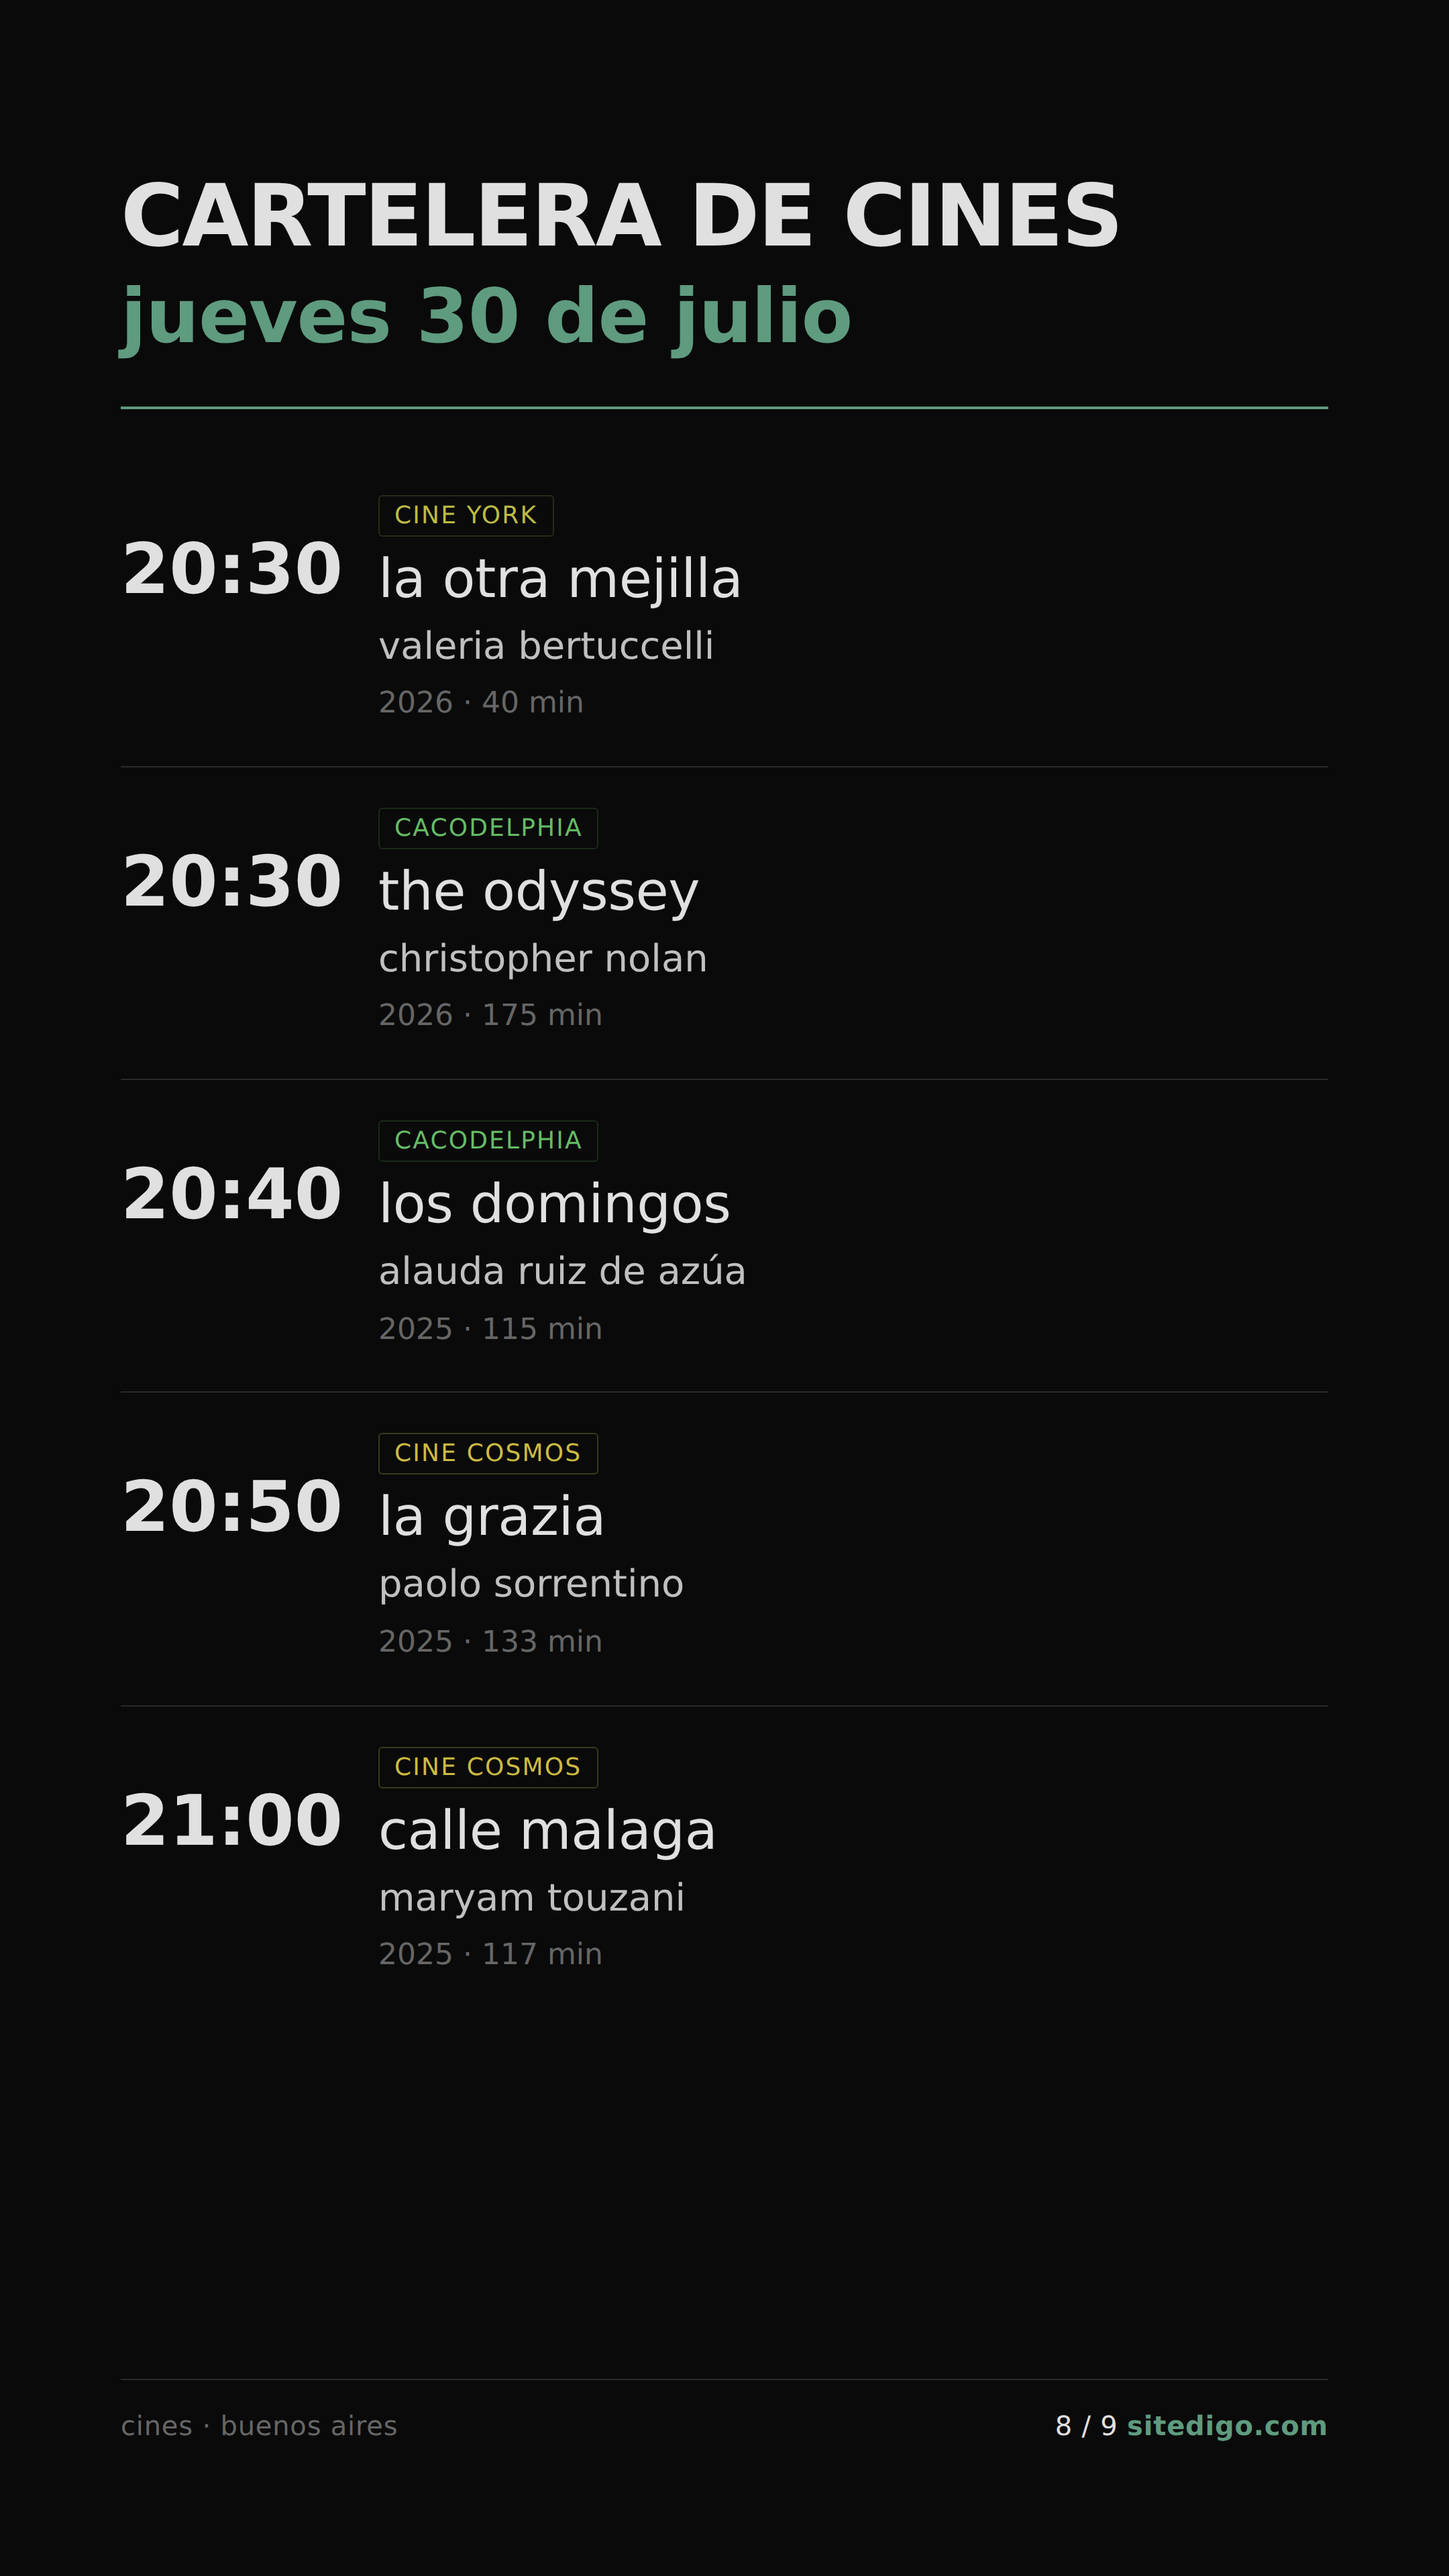
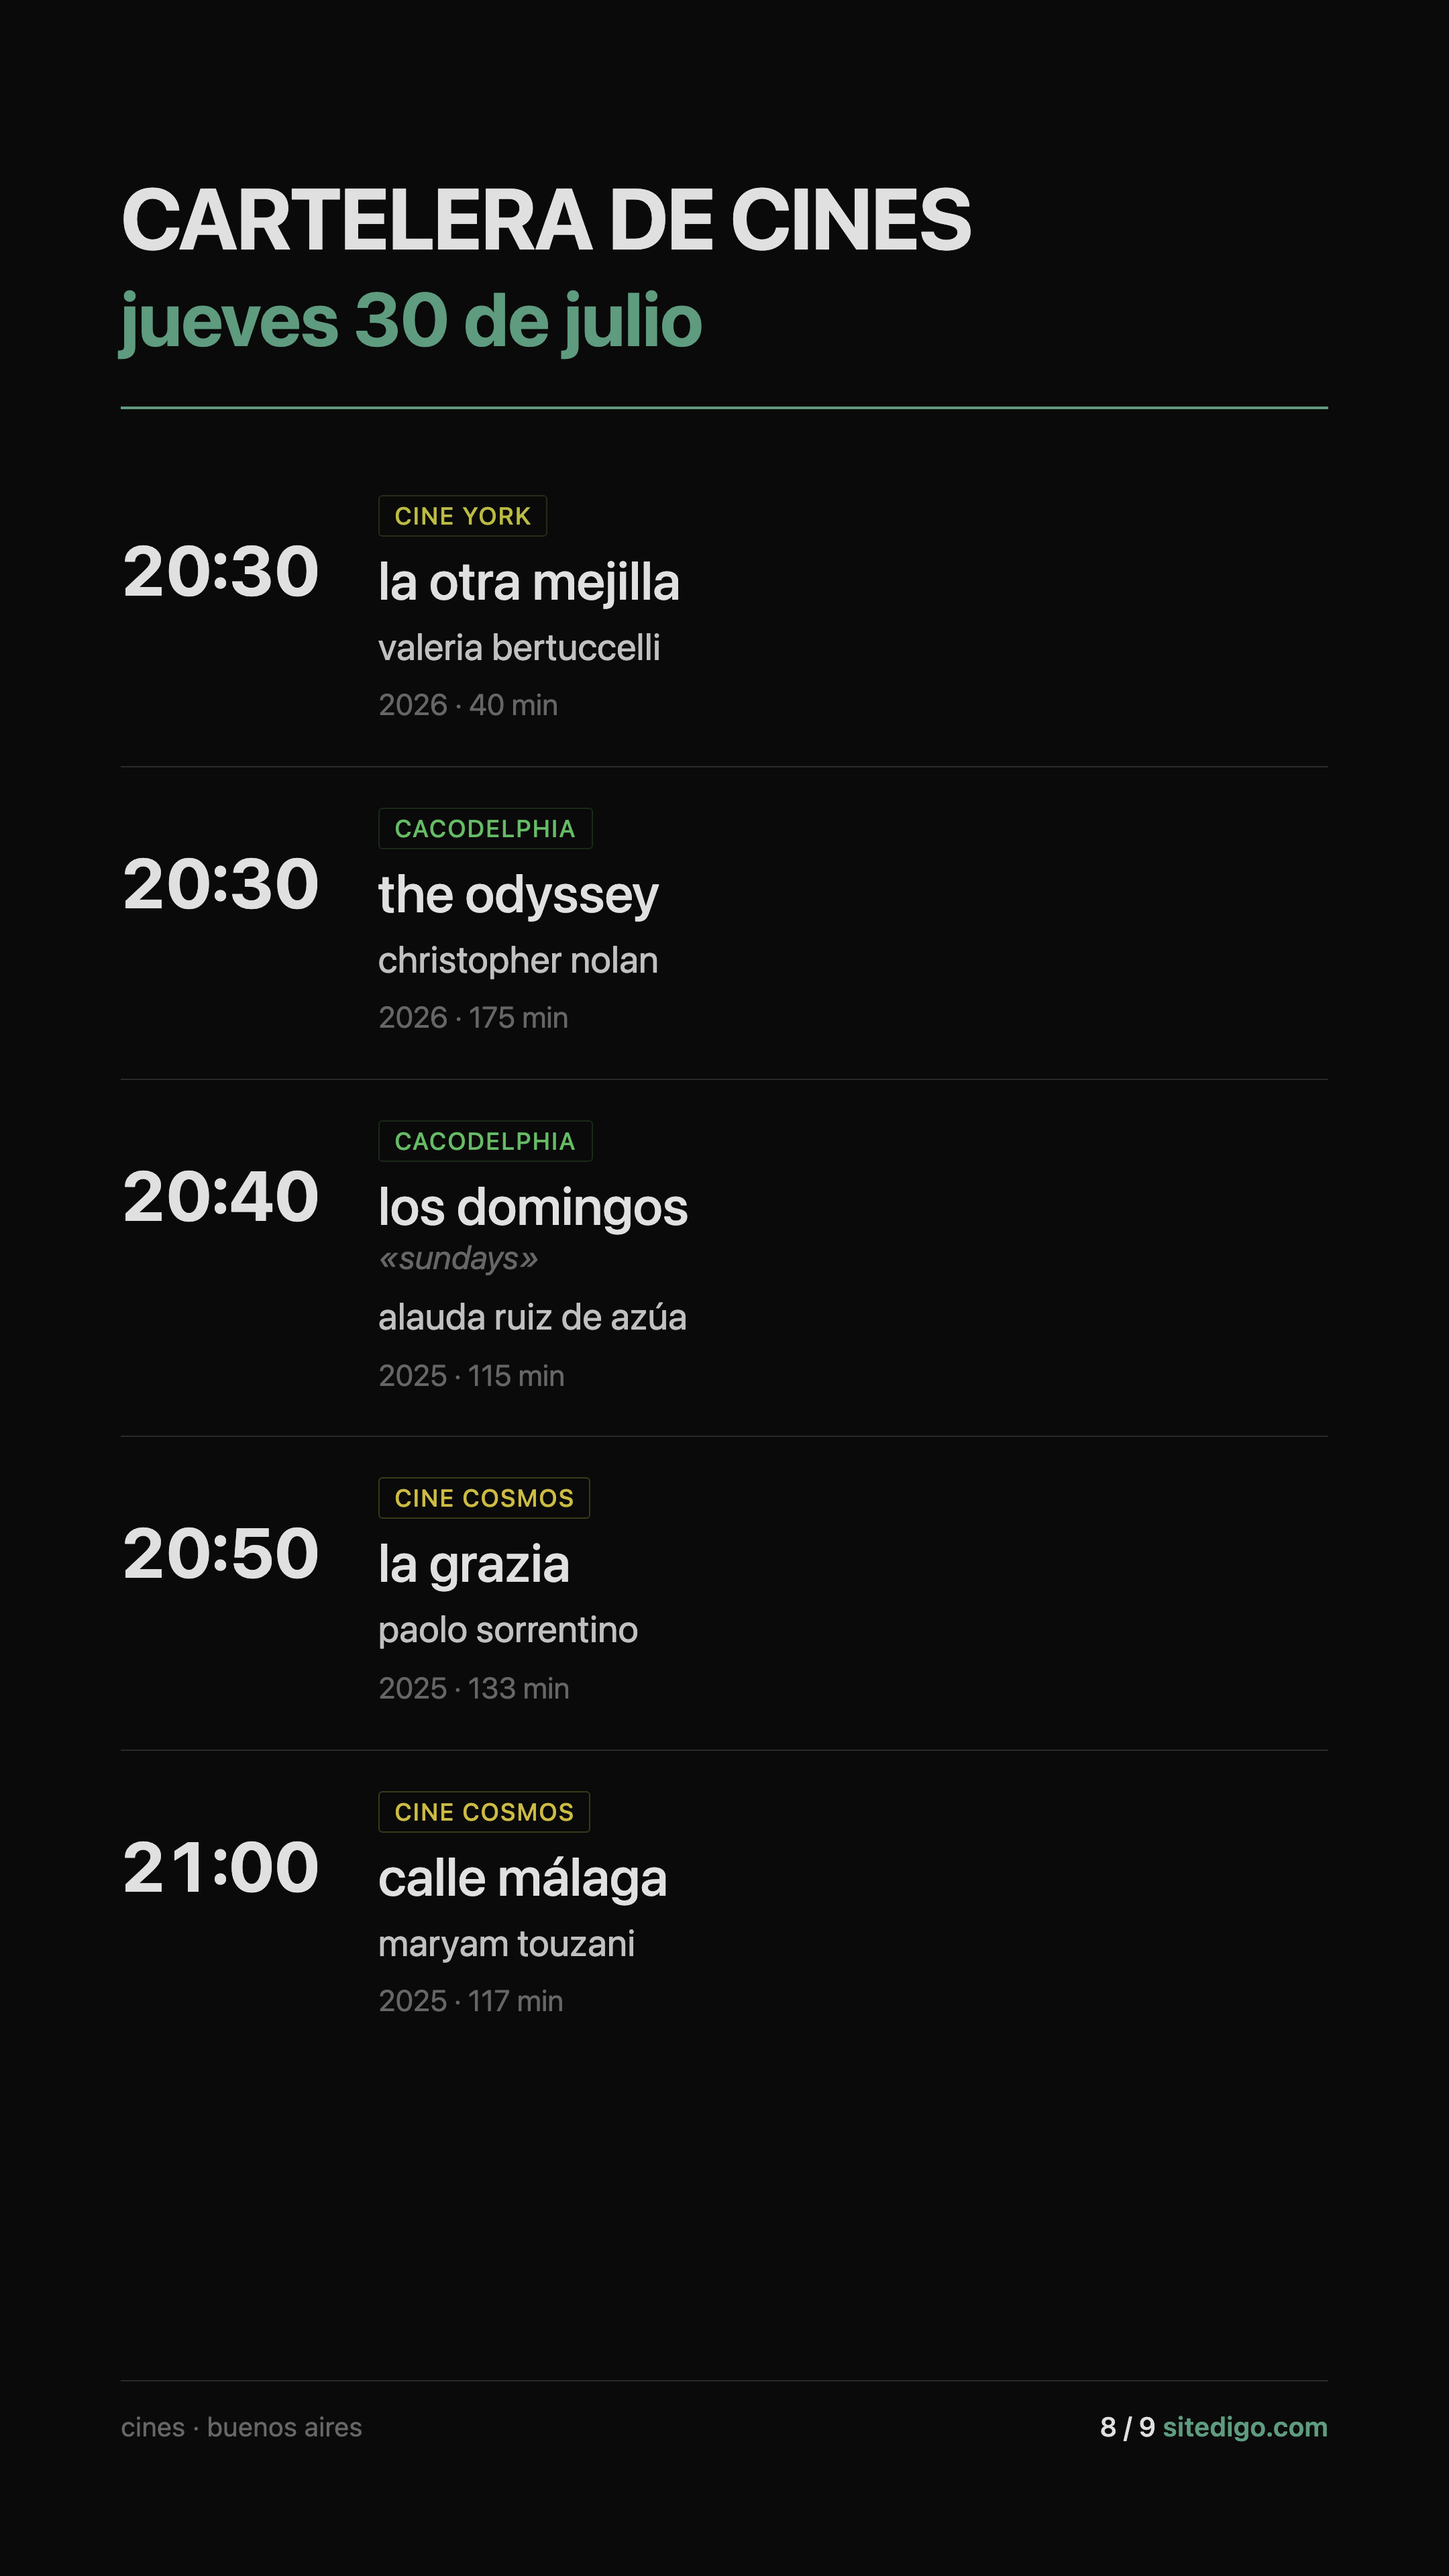
feat(ig): mismo criterio de títulos que la web en las stories
instagram.html usaba el criterio viejo (local para países hispanos,
inglés para el resto) y mostraba un solo título. Ahora comparte la
lógica de index.html: original como principal, inglés en «guillemets»,
y español primero cuando el original está en alfabeto no latino.

- El alt title va en su propia línea bajo el principal: con tipografía
  de 40px el inline envolvía y desalineaba la ficha.
- portrait baja de 5 a 4 fichas por slide — con la línea extra, 5 se
  desbordaban y cortaban la última.
- week mode no muestra alt (fila de una línea con ellipsis).
- normalizeAllCaps también en el alt ("TOM Y JERRY" → "Tom y jerry"),
  en la web y en las stories.

Data: "La vida de Pi" tenía original_title contaminado con "La Vida
Real de Daniel Pistola" (mal match de TMDb) y salía así en la story.
Corregido + link de Letterboxd verificado.

diff --git a/instagram.html b/instagram.html
@@ -210,6 +210,19 @@
     display: block;
     letter-spacing: -0.005em;
   }
+  /* Título alternativo (el otro idioma) — mismo criterio que la web, pero acá
+     en su propia línea: con tipografía grande el inline envuelve y desalinea.
+     Bloque debajo del título, alineado a la izquierda con el resto. */
+  .film-alt-title {
+    display: block;
+    font-weight: 400;
+    font-style: italic;
+    font-size: 0.62em;
+    color: var(--muted);
+    line-height: 1.25;
+    margin-top: 2px;
+    letter-spacing: 0;
+  }
   .film-director { font-size: 22px; font-weight: 400; color: var(--text); line-height: 1.3; text-transform: lowercase; opacity: 0.85; }
   .film-meta { font-size: 16px; color: var(--muted); line-height: 1.4; }
   .film-ciclo { font-size: 14px; color: var(--muted); font-style: italic; margin-top: 2px; text-transform: lowercase; }
@@ -262,10 +275,13 @@
   .post.week .film-cine {
     font-size: 10px; padding: 1px 6px; letter-spacing: 0.05em;
   }
-  /* En week mode no mostramos director/year/duration/ciclo para ahorrar espacio */
+  /* En week mode no mostramos director/year/duration/ciclo para ahorrar espacio.
+     El título alternativo tampoco entra: la fila es de una sola línea con
+     ellipsis. */
   .post.week .film-director,
   .post.week .film-meta,
-  .post.week .film-ciclo { display: none; }
+  .post.week .film-ciclo,
+  .post.week .film-alt-title { display: none; }
 
   .slides-controls { display: flex; align-items: center; gap: 8px; margin-left: auto; }
   .slides-controls button {
@@ -333,10 +349,6 @@ const DAYS_ES = ['Domingo', 'Lunes', 'Martes', 'Miércoles', 'Jueves', 'Viernes'
 const MONTHS_ES = ['enero', 'febrero', 'marzo', 'abril', 'mayo', 'junio',
                    'julio', 'agosto', 'septiembre', 'octubre', 'noviembre', 'diciembre'];
 
-const SPANISH_SPEAKING = ['argentina','españa','spain','méxico','mexico','chile','uruguay',
-  'colombia','perú','peru','venezuela','ecuador','bolivia','paraguay','cuba','guatemala',
-  'honduras','nicaragua','costa rica','panamá','panama','república dominicana',
-  'el salvador','puerto rico'];
 
 let allScreenings = [];
 let currentSlide = 1;
@@ -352,14 +364,31 @@ function normalizeAllCaps(t) {
   return t;
 }
 
+// Mismo criterio que la web (index.html): título ORIGINAL como principal y
+// el inglés en «guillemets». Si el original está en alfabeto no latino
+// (japonés, chino, coreano...), va el español primero.
+function isNonLatinTitle(t) {
+  return /[぀-ヿ㐀-䶿一-鿿豈-﫿가-힯ᄀ-ᇿЀ-ӿ֐-׿-ۿ฀-๿ऀ-ॿ]/.test(t);
+}
+
 function displayTitle(s) {
-  const lb = s.title_en || '';
-  const local = s.title_es || '';
-  const country = (s.country || '').toLowerCase();
-  const isSpanish = SPANISH_SPEAKING.some(c => country.includes(c));
-  if (isSpanish && local) return normalizeAllCaps(local);
-  if (lb && s.letterboxd) return lb;
-  return normalizeAllCaps(local) || lb;
+  const orig = s.original_title || '';
+  if (orig && !isNonLatinTitle(orig)) return orig;
+  return normalizeAllCaps(s.title_es || '') || s.title_en || orig;
+}
+
+function altTitle(s) {
+  const main = displayTitle(s);
+  const en = normalizeAllCaps(s.title_en || '');
+  const norm = t => t.trim().toLowerCase().normalize('NFD').replace(/[̀-ͯ]/g, '');
+  if (!en || norm(en) === norm(main)) return '';
+  return en;
+}
+
+function titleHtml(s) {
+  const alt = altTitle(s);
+  return escapeHtml(displayTitle(s)) +
+    (alt ? `<span class="film-alt-title">«${escapeHtml(alt)}»</span>` : '');
 }
 
 function cineCssClass(cine) {
@@ -440,10 +469,12 @@ window.cartelera = {
 // Heurística: cuántas pelis entran por slide según el formato.
 // Conservador para que entren limpias incluso con director + año + ciclo.
 function filmsPerSlide(format) {
+  // portrait (1080×1350) es el más bajo de los tres: con el título alternativo
+  // en su propia línea, 5 fichas se desbordan. Story (1080×1920) tiene aire.
   if (format === 'square') return 4;
-  if (format === 'portrait') return 5;
+  if (format === 'portrait') return 4;
   if (format === 'story') return 5;
-  return 5;
+  return 4;
 }
 
 const DAY_ACCENT = [
@@ -518,7 +549,7 @@ function renderSlide(slideNum) {
         <div class="${horaClass}">${horaText}</div>
         <div class="film-body">
           <span class="film-cine ${cineCssClass(s.cine)}">${escapeHtml(s.cine)}</span>
-          <div class="film-title">${escapeHtml(displayTitle(s))}</div>
+          <div class="film-title">${titleHtml(s)}</div>
           ${s.director ? `<div class="film-director">${escapeHtml(s.director)}</div>` : ''}
           ${yearDur ? `<div class="film-meta">${escapeHtml(yearDur)}</div>` : ''}
           ${s.ciclo ? `<div class="film-ciclo">${escapeHtml(s.ciclo)}</div>` : ''}

diff --git a/index.html b/index.html
@@ -1289,9 +1289,17 @@ function displayTitle(s) {
   return s.title_es || s.title_en || orig;
 }
 
+// "TOM Y JERRY" → "Tom y jerry". Algunos cines devuelven el título en
+// mayúsculas y se cuela en title_en.
+function normalizeAllCaps(t) {
+  if (!t) return '';
+  if (t === t.toUpperCase() && t.length > 3) return t.charAt(0) + t.slice(1).toLowerCase();
+  return t;
+}
+
 function altTitle(s) {
   const main = displayTitle(s);
-  const en = s.title_en || '';
+  const en = normalizeAllCaps(s.title_en || '');
   const norm = t => t.trim().toLowerCase().normalize('NFD').replace(/[̀-ͯ]/g, '');
   if (!en || norm(en) === norm(main)) return '';
   return en;
